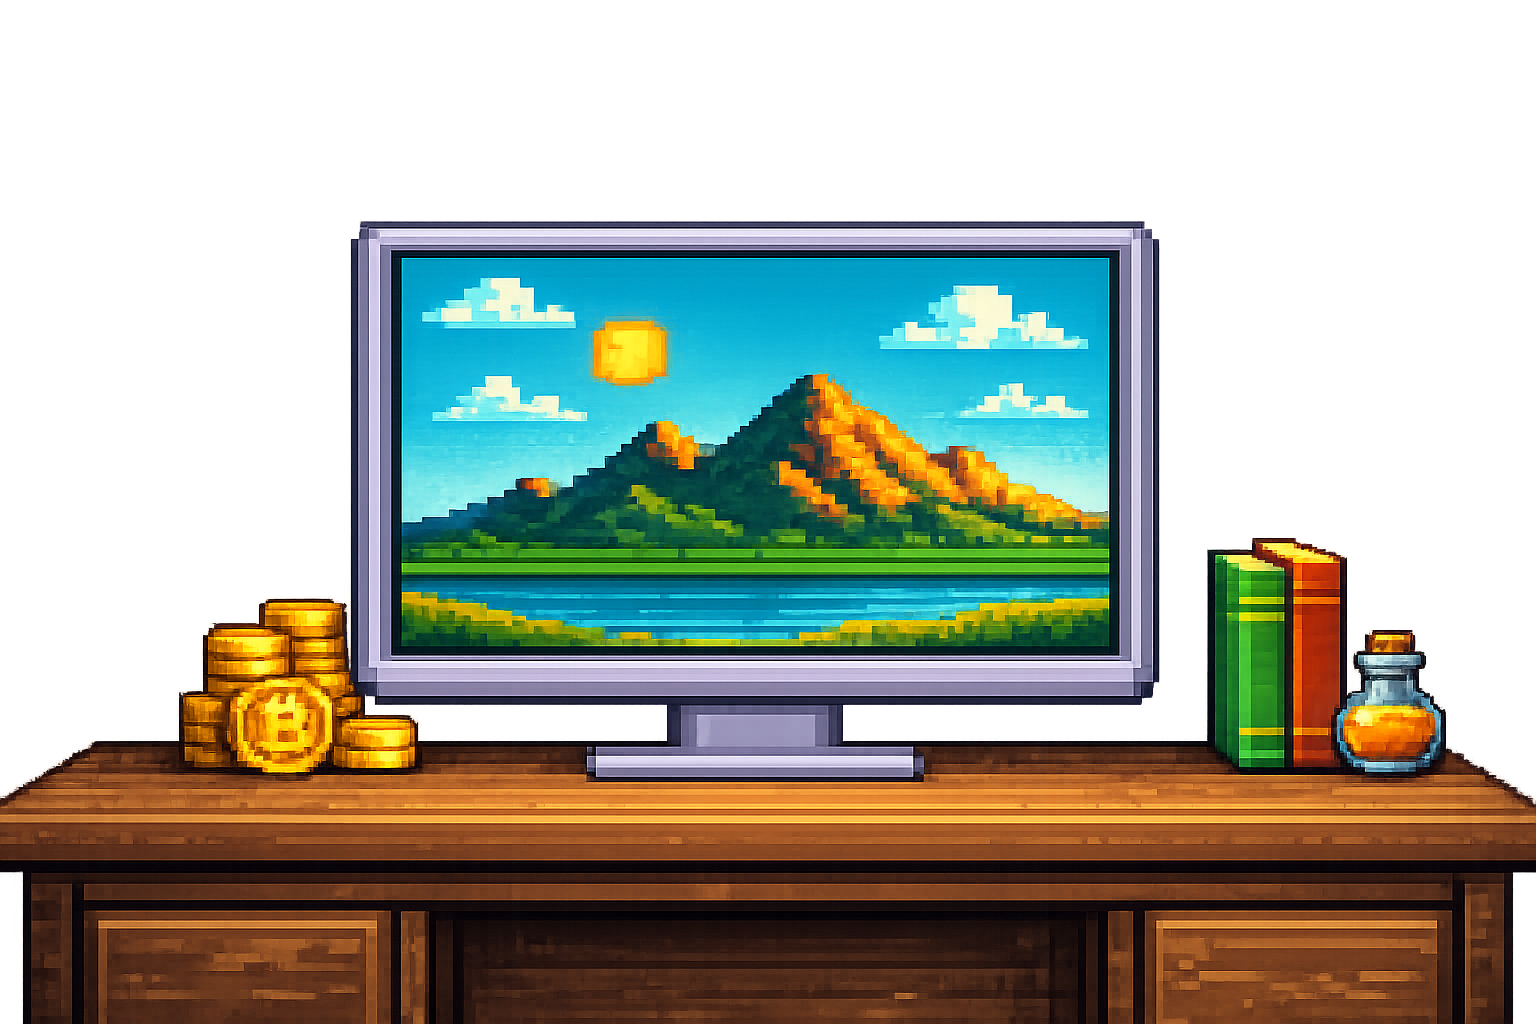
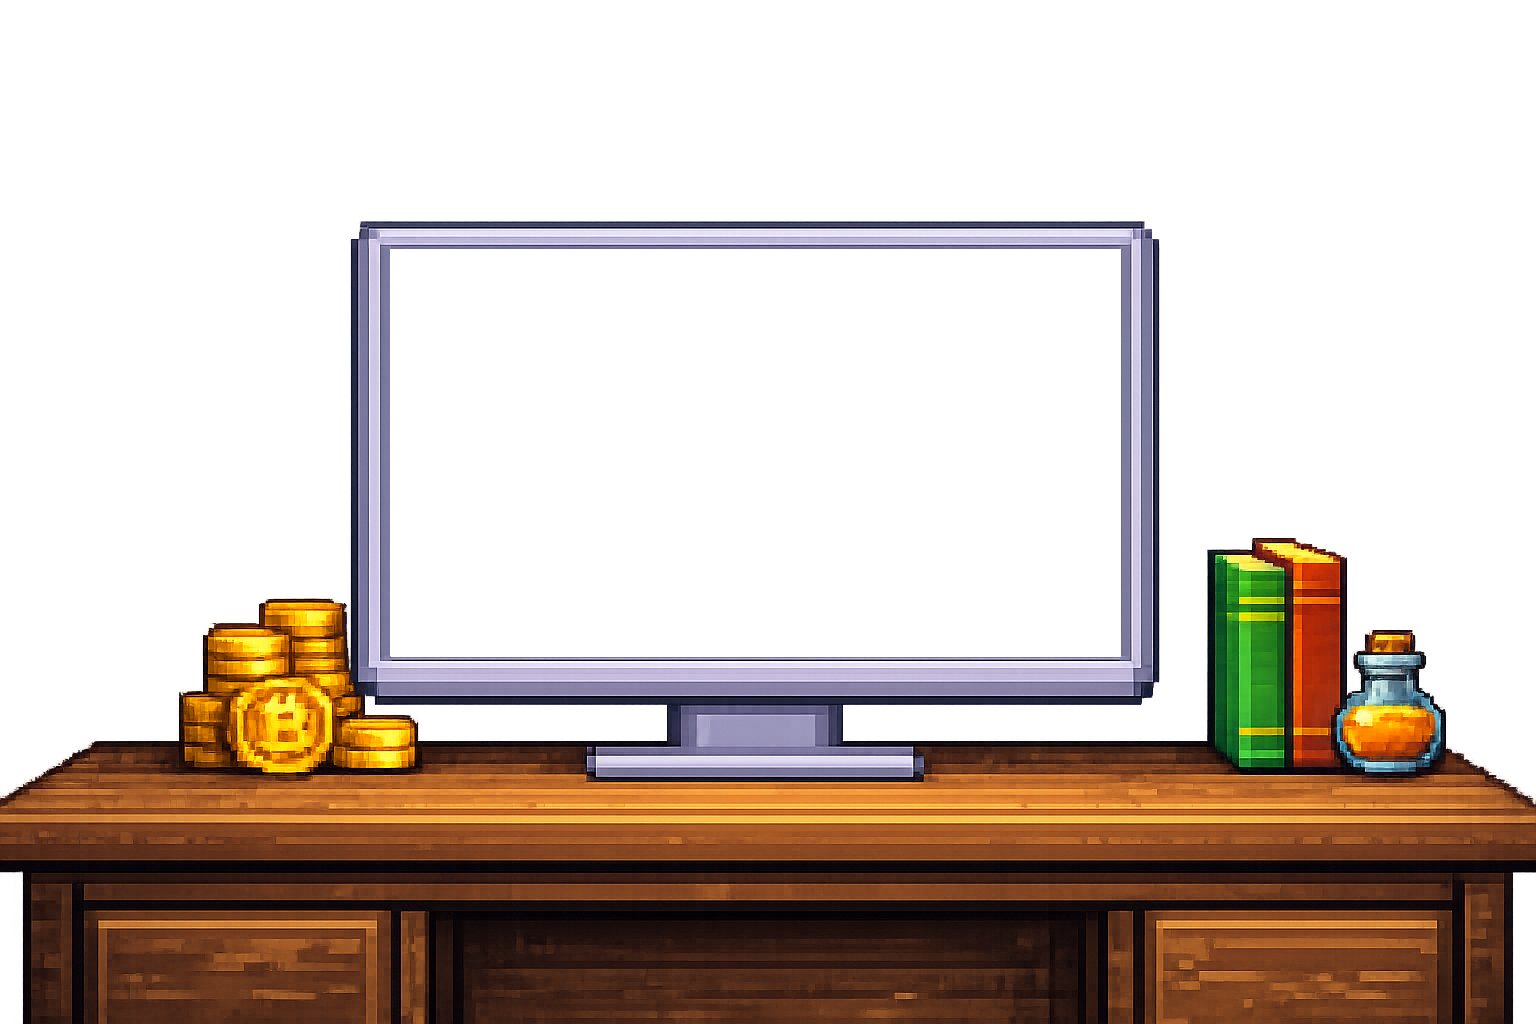
Add PC screen layout and sidebar functionality

Changed region(s): [[0.25, 0.2188, 0.75, 0.6562]]

diff --git a/project/scripts/togglePages.js b/project/scripts/togglePages.js
@@ -50,7 +50,7 @@ function hideAllScreens() {
 
 // === Loading Screen
 
-async function showLoadingScreen() {
+function showLoadingScreen() {
         hideAllScreens()
         SCREENS.loadingScreen.style.display = "block"
         setTimeout(() => {
@@ -110,29 +110,47 @@ function removeItemFromInventory(itemId) {}
 // === PC Screen ===
 function openPC() {
     hideAllScreens()
-    SCREENS.pcScreen.main.style.display = "block"
-    SCREENS.inventoryScreen.style.display = "block"
+    SCREENS.pcScreen.main.style.display = "flex"
 }
 function closePC() {
     hideAllScreens()
+    showPCHome()
     SCREENS.gameScreen.style.display = "block"
 }
 
 // === PC – Home ===
 function showPCHome() {
-    SCREENS.inventoryScreen.style.display = "block"
+    SCREENS.pcScreen.home.classList.add('sidebarActive')
+    SCREENS.pcScreen.sell.classList.remove('sidebarActive')
+    SCREENS.pcScreen.shop.classList.remove('sidebarActive')
+    SCREENS.pcScreen.energy.classList.remove('sidebarActive')
 }
 
 // === PC – Sell ===
-function showPCSell() {}
+function showPCSell() {
+    SCREENS.pcScreen.home.classList.remove('sidebarActive')
+    SCREENS.pcScreen.sell.classList.add('sidebarActive')
+    SCREENS.pcScreen.shop.classList.remove('sidebarActive')
+    SCREENS.pcScreen.energy.classList.remove('sidebarActive')
+}
 function sellItem(itemId) {}
 
 // === PC – Shop ===
-function showPCShop() {}
+function showPCShop() {
+    SCREENS.pcScreen.home.classList.remove('sidebarActive')
+    SCREENS.pcScreen.sell.classList.remove('sidebarActive')
+    SCREENS.pcScreen.shop.classList.add('sidebarActive')
+    SCREENS.pcScreen.energy.classList.remove('sidebarActive')
+}
 function buyItem(itemId) {}
 
 // === PC – Energy ===
-function showPCEnergy() {}
+function showPCEnergy() {
+    SCREENS.pcScreen.home.classList.remove('sidebarActive')
+    SCREENS.pcScreen.sell.classList.remove('sidebarActive')
+    SCREENS.pcScreen.shop.classList.remove('sidebarActive')
+    SCREENS.pcScreen.energy.classList.add('sidebarActive')
+}
 function buyEnergy(amount) {}
 function updateEnergyDisplay() {}
 
@@ -141,8 +159,7 @@ function updateEnergyDisplay() {}
 
 // === INIT ===
 function init() {
-    showLoadingScreen()
-    
+    //showLoadingScreen()
 }
 
 init()

diff --git a/project/styles/style.css b/project/styles/style.css
@@ -60,6 +60,7 @@ body {
     background-image: url('../img/bg/bg3.png');
     background-position: center;
     background-size: cover;
+    background-attachment: fixed;
     height: 100%;
     width: 100%;
     gap: 1rem;
@@ -92,6 +93,7 @@ body {
     background-size: cover;
     overflow-y: scroll;
     scrollbar-width: none;
+    background-attachment: fixed;
 }
 
 .tutorialScreen {
@@ -106,6 +108,7 @@ body {
     background-size: cover;
     overflow-y: scroll;
     scrollbar-width: none;
+    background-attachment: fixed;
 }
 
 .contentWrapper {
@@ -138,8 +141,56 @@ body {
     height: 10rem;
 }
 
+.gameScreen {
+    display: flex;
+    justify-content: center;
+    background-image: url('../img/bg/bg3.png');
+    background-size: cover;
+    height: 100vh;
+    gap: 1rem;
+    background-attachment: fixed;
+    overflow-x: scroll;
+    scrollbar-width: none;
+}
 
+.building {
+  display: flex;
+  align-items: end;
+  background-image: url('../img/building.png');
+  height: 102vh;
+  width: 110%;
+  margin: 0;
+  padding: 0;
+  background-size: 100%;
+  overflow-x: scroll;
+  background-repeat: no-repeat;
+  background-position: center 80%;
+}
 
+.pcDesk {
+  position: relative;
+  bottom: 14%;
+  left: 22%;
+  width: 15%;
+}
+
+.pcDesk img {
+  width: 100%;
+  cursor: pointer;
+  transition: all 0.3s ease-in-out;
+}
+
+.pcDesk img:hover {
+  filter: drop-shadow(0 0 10px rgba(255, 255, 87, 0.622));
+}
+
+.pcScreen {
+  width: 100%;
+  height: 100%;
+  background-image: url('../img/Pc.png');
+  background-position: center;
+  background-size: cover;
+}
 
 
 

diff --git a/project/index.html b/project/index.html
@@ -53,9 +53,20 @@
                 <div></div>
         </div>
     </section>
-    <section class="gameScreen" id="gameScreen"></section>
+    <section class="gameScreen" id="gameScreen">
+        <div class="building" id="building">
+            <div class="pcDesk" id="pcDesk"><img onclick="openPC()" src="img/desk.png"></div>
+            <div class="rackContainer" id="rackContainer"></div>
+        </div>
+    </section>
     <section class="inventoryScreen" id="inventoryScreen"></section>
     <section class="pcScreen" id="pcScreen">
+        <div class="sidebar" id="sidebar">
+            <div class="sidebarBtn sidebarActive" id="sidebarBtnHome" onclick="showPcHome()">Home</div>
+            <div class="sidebarBtn" id="sidebarBtnSell" onclick="showPcSell()">Sell</div>
+            <div class="sidebarBtn" id="sidebarBtnShop" onclick="showPcShop()">Shop</div>
+            <div class="sidebarBtn" id="sidebarBtnEnergy" onclick="showPcEnergy()">Energy</div>
+        </div>
         <section class="pcHomeScreen" id="pcHomeScreen"></section>
         <section class="pcSellScreen" id="pcSellScreen"></section>
         <section class="pcShopScreen" id="pcShopScreen"></section>
